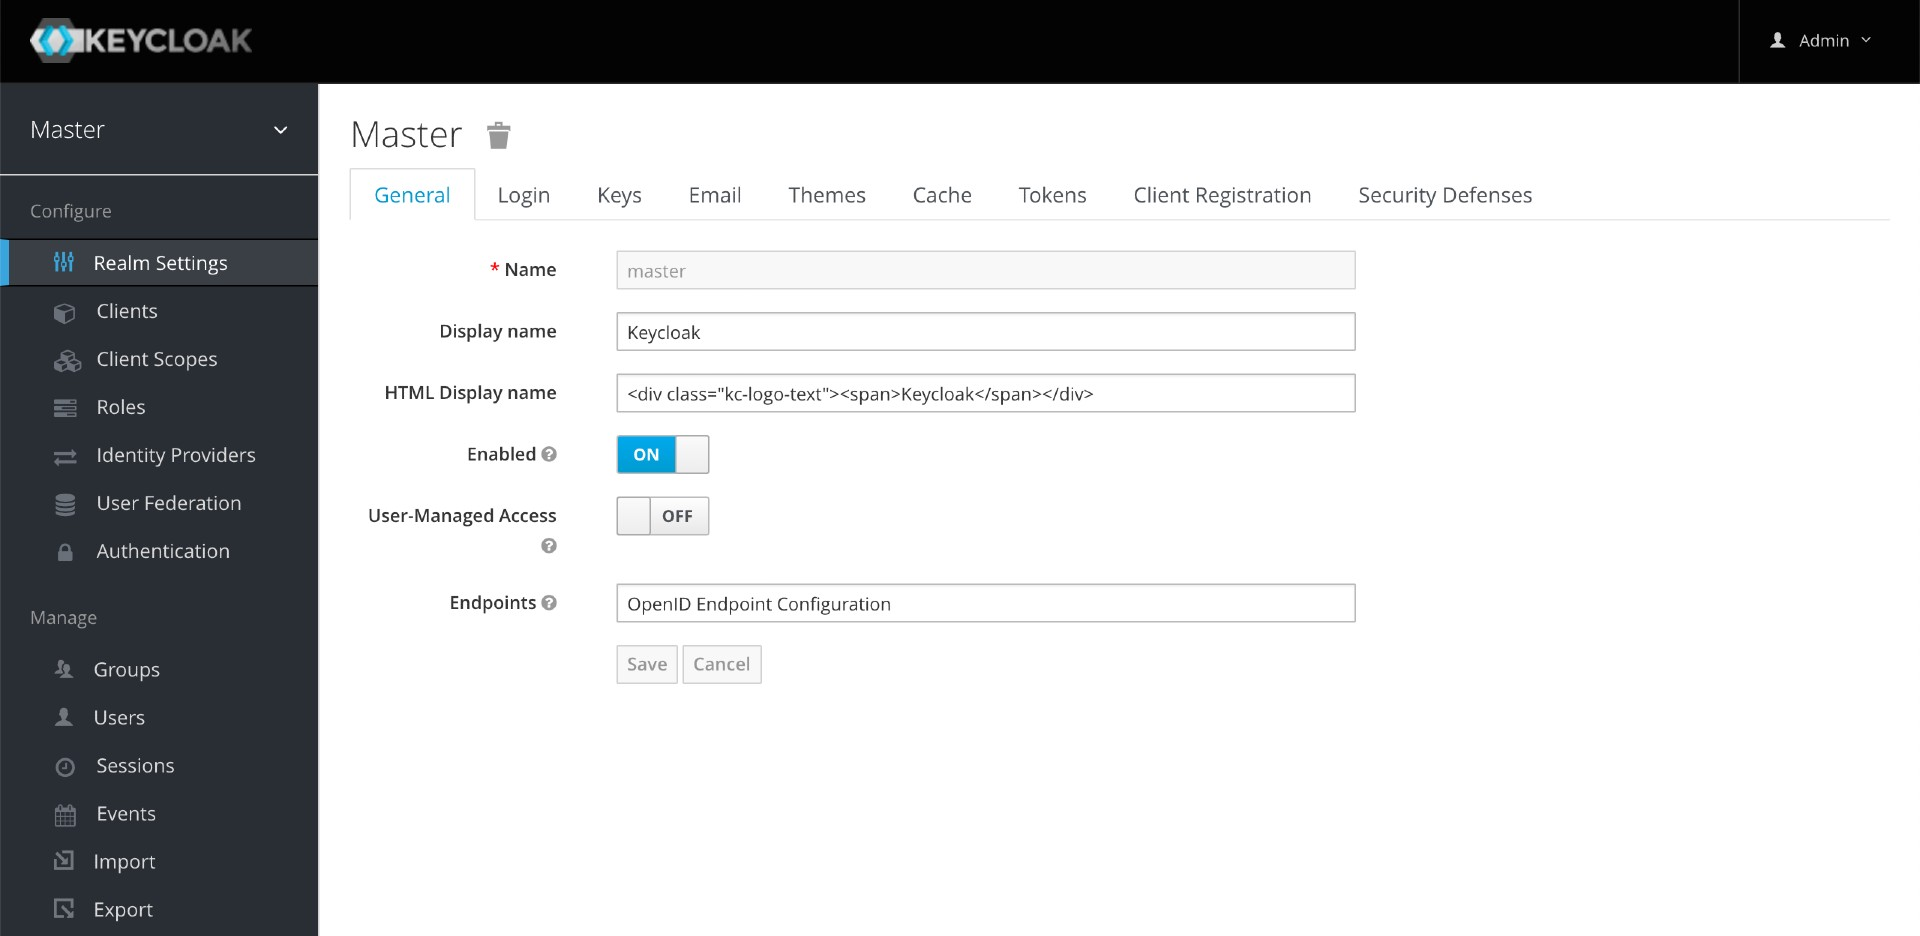
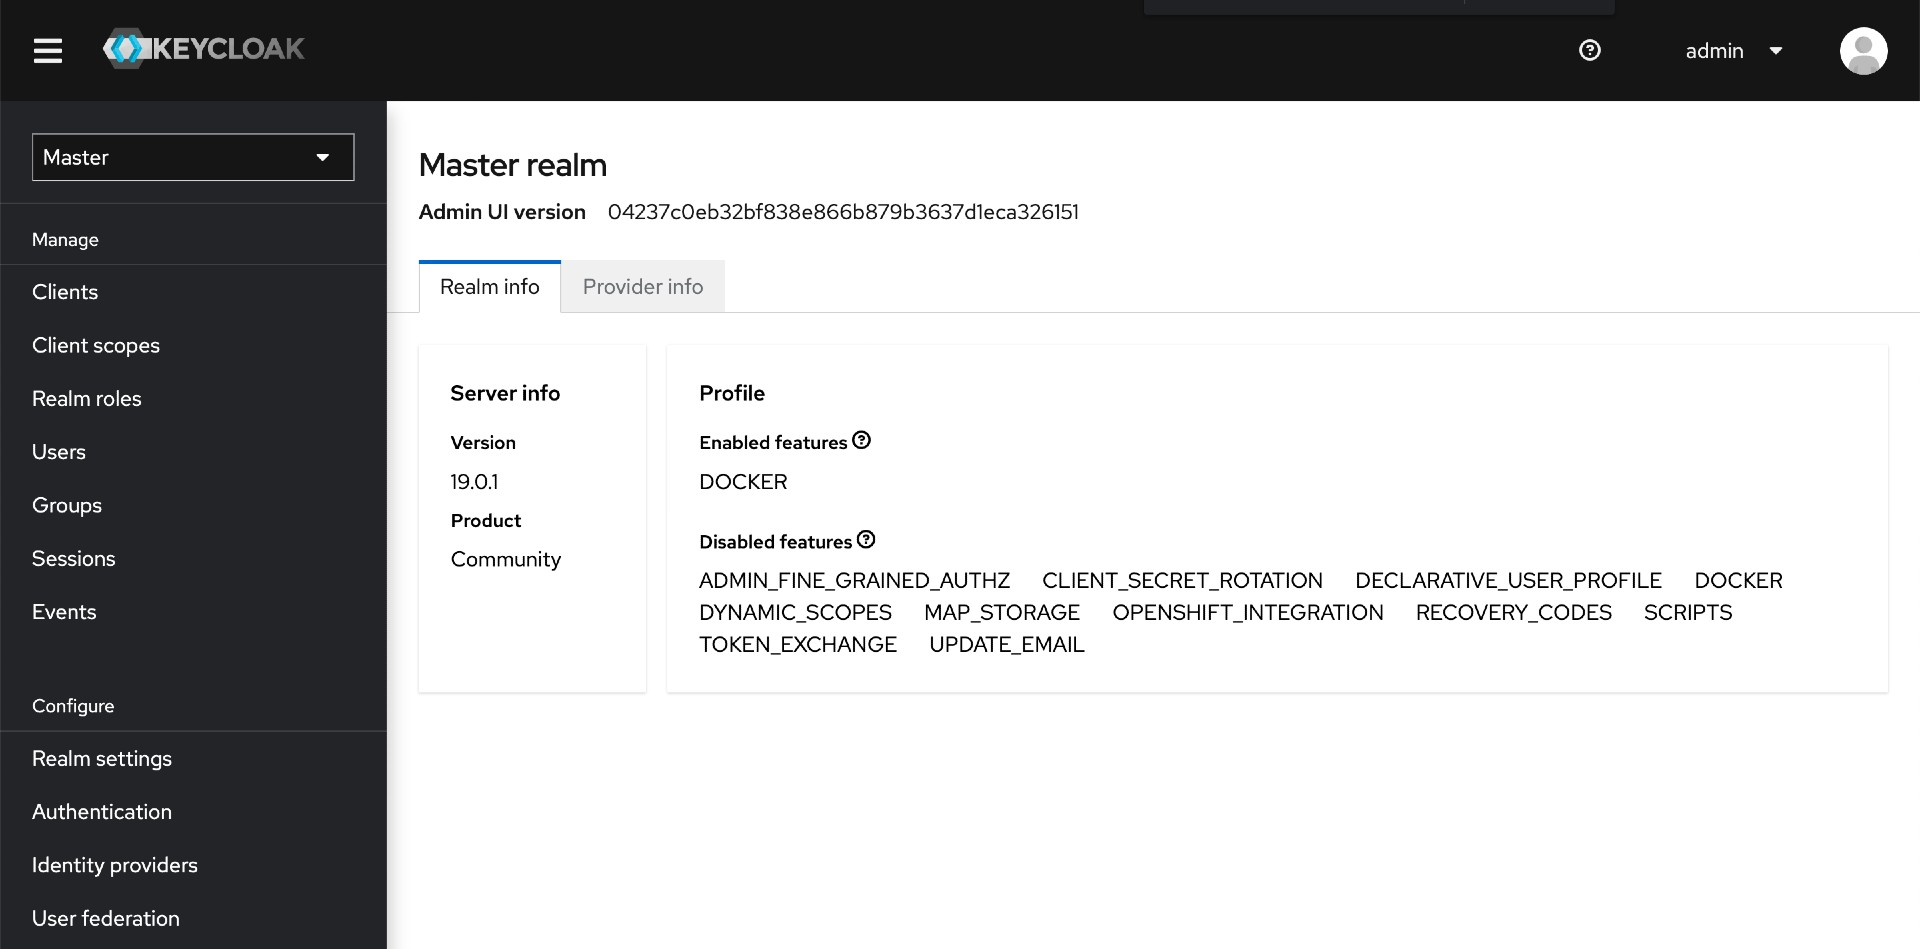
project upgrade - upgrade to Java 17; - upgrade to spring-boot 2.7.3; - upgrade to springdoc-openapi 1.6.11; - upgrade to jib-maven-plugin 3.3.0; - upgrade to maven distributionUrl 3.8.6; - upgrade to mysql docker image 5.7.39; - upgrade to keycloak docker image 19.0.1; - update Keycloak UI screensh

diff --git a/simple-service/src/test/java/com/ivanfranchin/simpleservice/SimpleServiceApplicationTests.java b/simple-service/src/test/java/com/ivanfranchin/simpleservice/SimpleServiceApplicationTests.java
@@ -11,5 +11,4 @@ public class SimpleServiceApplicationTests {
     @Test
     public void contextLoads() {
     }
-
 }

diff --git a/README.md b/README.md
@@ -17,7 +17,7 @@ The goal of this project is to create a simple [Spring Boot](https://docs.spring
 
 ## Prerequisites
 
-- [`Java 11+`](https://www.oracle.com/java/technologies/downloads/#java11)
+- [`Java 17+`](https://www.oracle.com/java/technologies/downloads/#java17)
 - [`Docker`](https://www.docker.com/)
 - [`Docker-Compose`](https://docs.docker.com/compose/install/)
 - [`jq`](https://stedolan.github.io/jq)
@@ -110,50 +110,54 @@ There are two ways: running a script or using `Keycloak` website
 
 #### Create a new Realm
 
-- Go to top-left corner and hover the mouse over `Master` realm. Click the `Add realm` blue button that will appear
-- Set `company-services` to the `Name` field and click `Create` button
+- Click the dropdown button that contains `Master` and then, click `Create Realm` button
+- Set `company-services` to the `Realm name` field and click `Create` button
 
 #### Create a new Client
 
 - On the left menu, click `Clients` 
-- Click `Create` button
-- Set `simple-service` to `Client ID` and click `Save` button
+- Click `Create client` button
+- In `General Settings`
+  - Set `simple-service` to `Client ID`
+  - Click `Next` button
+- In `Capacity config`
+  - Enable `Client authentication` toggle switch
+  - Click `Save` button
 - In `Settings` tab
-  - Set `confidential` to `Access Type`
   - Set `http://localhost:9080/*` to `Valid Redirect URIs`
   - Click `Save` button
-- In `Credentials` tab you can find the secret `Keycloak` generated for `simple-service`
+- In `Credentials` tab, you can find the secret generated for `simple-service`
 - In `Roles` tab
-  - Click `Add Role` button
+  - Click `Create Role` button
   - Set `USER` to `Role Name` and click `Save` button
 
 #### LDAP Integration
 
-- On the left menu, click `User Federation`
-- Select `ldap`
-- Select `READ_ONLY` to `Edit Mode`
+- On the left menu, click `User federation`
+- Click `Add Ldap providers`
 - Select `Other` for `Vendor`
 - Set `ldap://openldap` to `Connection URL`
-- Click `Test connection` button, to check if the connection is OK
-- Set `ou=users,dc=mycompany,dc=com` to `Users DN` 
-- Set `(gidnumber=500)` to `Custom User LDAP Filter` (filter just developers)
 - Set `cn=admin,dc=mycompany,dc=com` to `Bind DN`
 - Set `admin` to `Bind Credential`
+- Select `READ_ONLY` to `Edit Mode`
+- Set `ou=users,dc=mycompany,dc=com` to `Users DN` 
+- Set `(gidnumber=500)` to `User LDAP Filter` (filter just developers)
+- Click `Test connection` button, to check if the connection is OK
 - Click `Test authentication` button, to check if the authentication is OK
 - Click `Save` button
-- Click `Synchronize all users` button
 
 #### Configure users imported
 
 - On the left menu, click `Users`
-- Click `View all users` button. 3 users should be shown
-- Edit user `bgates` by clicking its `ID` or `Edit` button
+- In `Search user` field, type `*` and press `Enter` to view all users. 3 users should be shown
+- Edit user `bgates` by clicking its `username` link
 - In `Role Mappings` tab
-  - Select `simple-service` in `Client Roles` combo-box
-  - Select `USER` role present in `Available Roles` and click `Add selected`
-  - `bgates` has now `USER` role as one of his `Assigned Roles`
+  - Click `Assign role` button
+  - Click the `Filter by Origin` dropdown button and select `simple-service`
+  - Select `USER` role and click `Assign` button
+  - Now, `bgates` has the role `USER` of `simple-service`
 - Do the same for the user `sjobs`
-- Let's leave `mcuban` without `USER` role
+- Leave `mcuban` without it
 
 ## Run simple-service using Maven
 
@@ -264,7 +268,7 @@ There are two ways: running a script or using `Keycloak` website
 
 ## Test using Swagger
 
-1. Access http://localhost:9080/swagger-ui/index.html
+1. Access http://localhost:9080/swagger-ui.html
 
    ![simple-service-swagger](documentation/simple-service-swagger.jpeg)
 
@@ -328,11 +332,16 @@ You can get an access token to `simple-service` using `client_id` and `client_se
 - On the left menu, click `Clients`
 - Select `simple-service` client
 - In `Settings` tab
-  - Turn `ON` the field `Service Accounts Enabled`
+  - Go to `Capability config` and check `Service accounts roles` checkbox
   - Click `Save` button
-- In `Service Account Roles`tab
-  - Select `simple-service` in `Client Roles` combo-box
-  - Select `USER` role present in `Available Roles` and click `Add selected`
+- In `Service account roles` tab
+  - Click `service-account-simple-service` link present in the info message
+    > "To manage detail and group mappings, click on the username service-account-simple-service"
+  - In `Role mapping` tab
+    - Click `Assign role` button
+    - Click the `Filter by Origin` dropdown button and select `simple-service`
+    - Select `USER` role and click `Assign` button
+    - Now, `service-account-simple-service` has the role `USER` of `simple-service`
 
 ### Test
 
